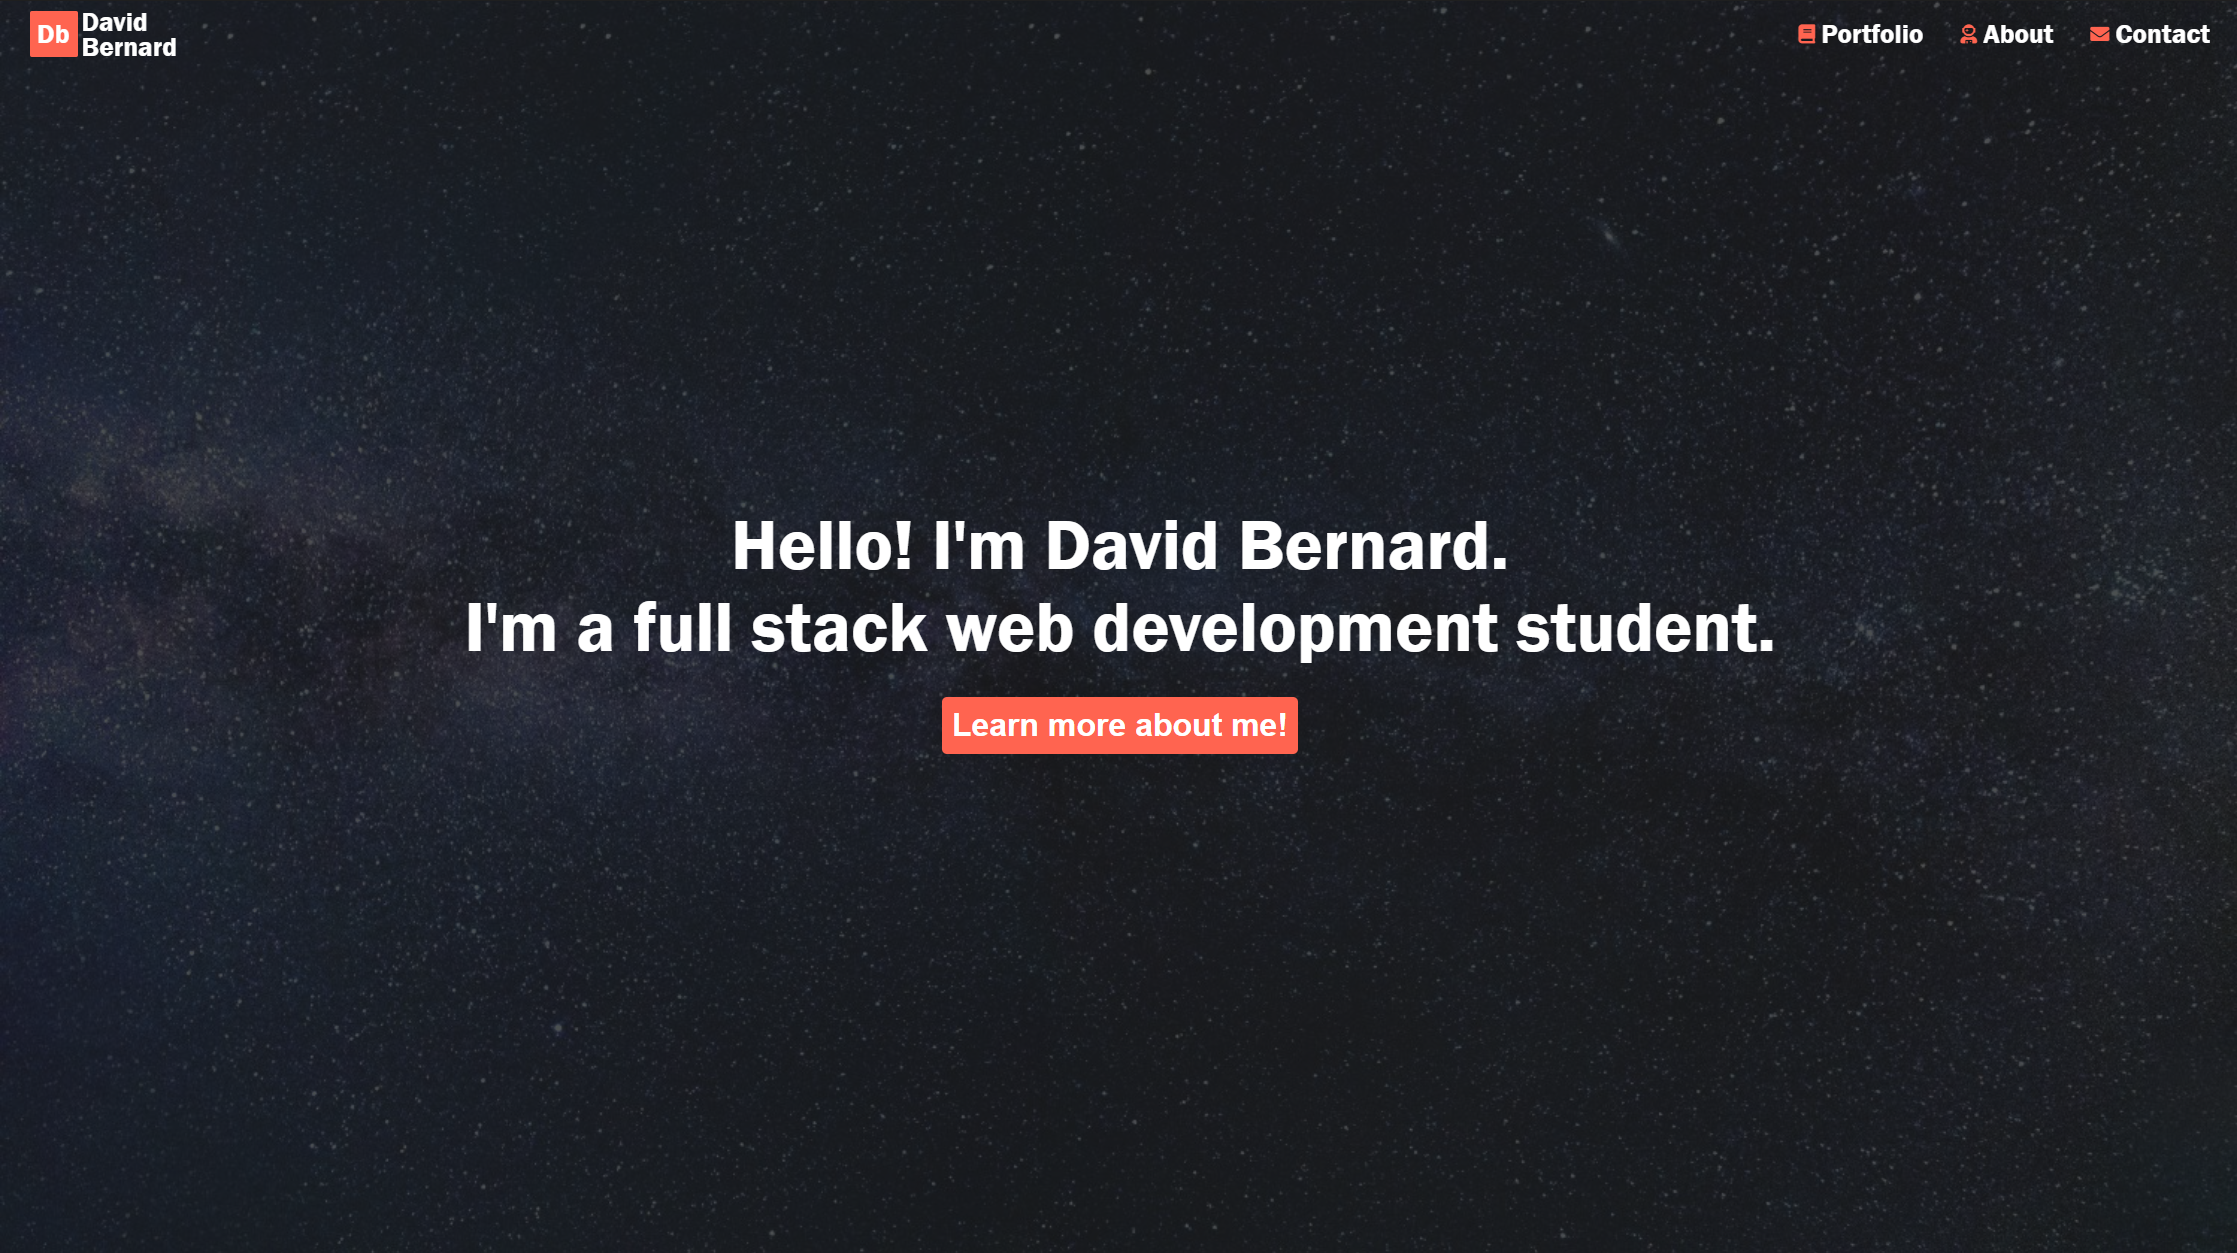
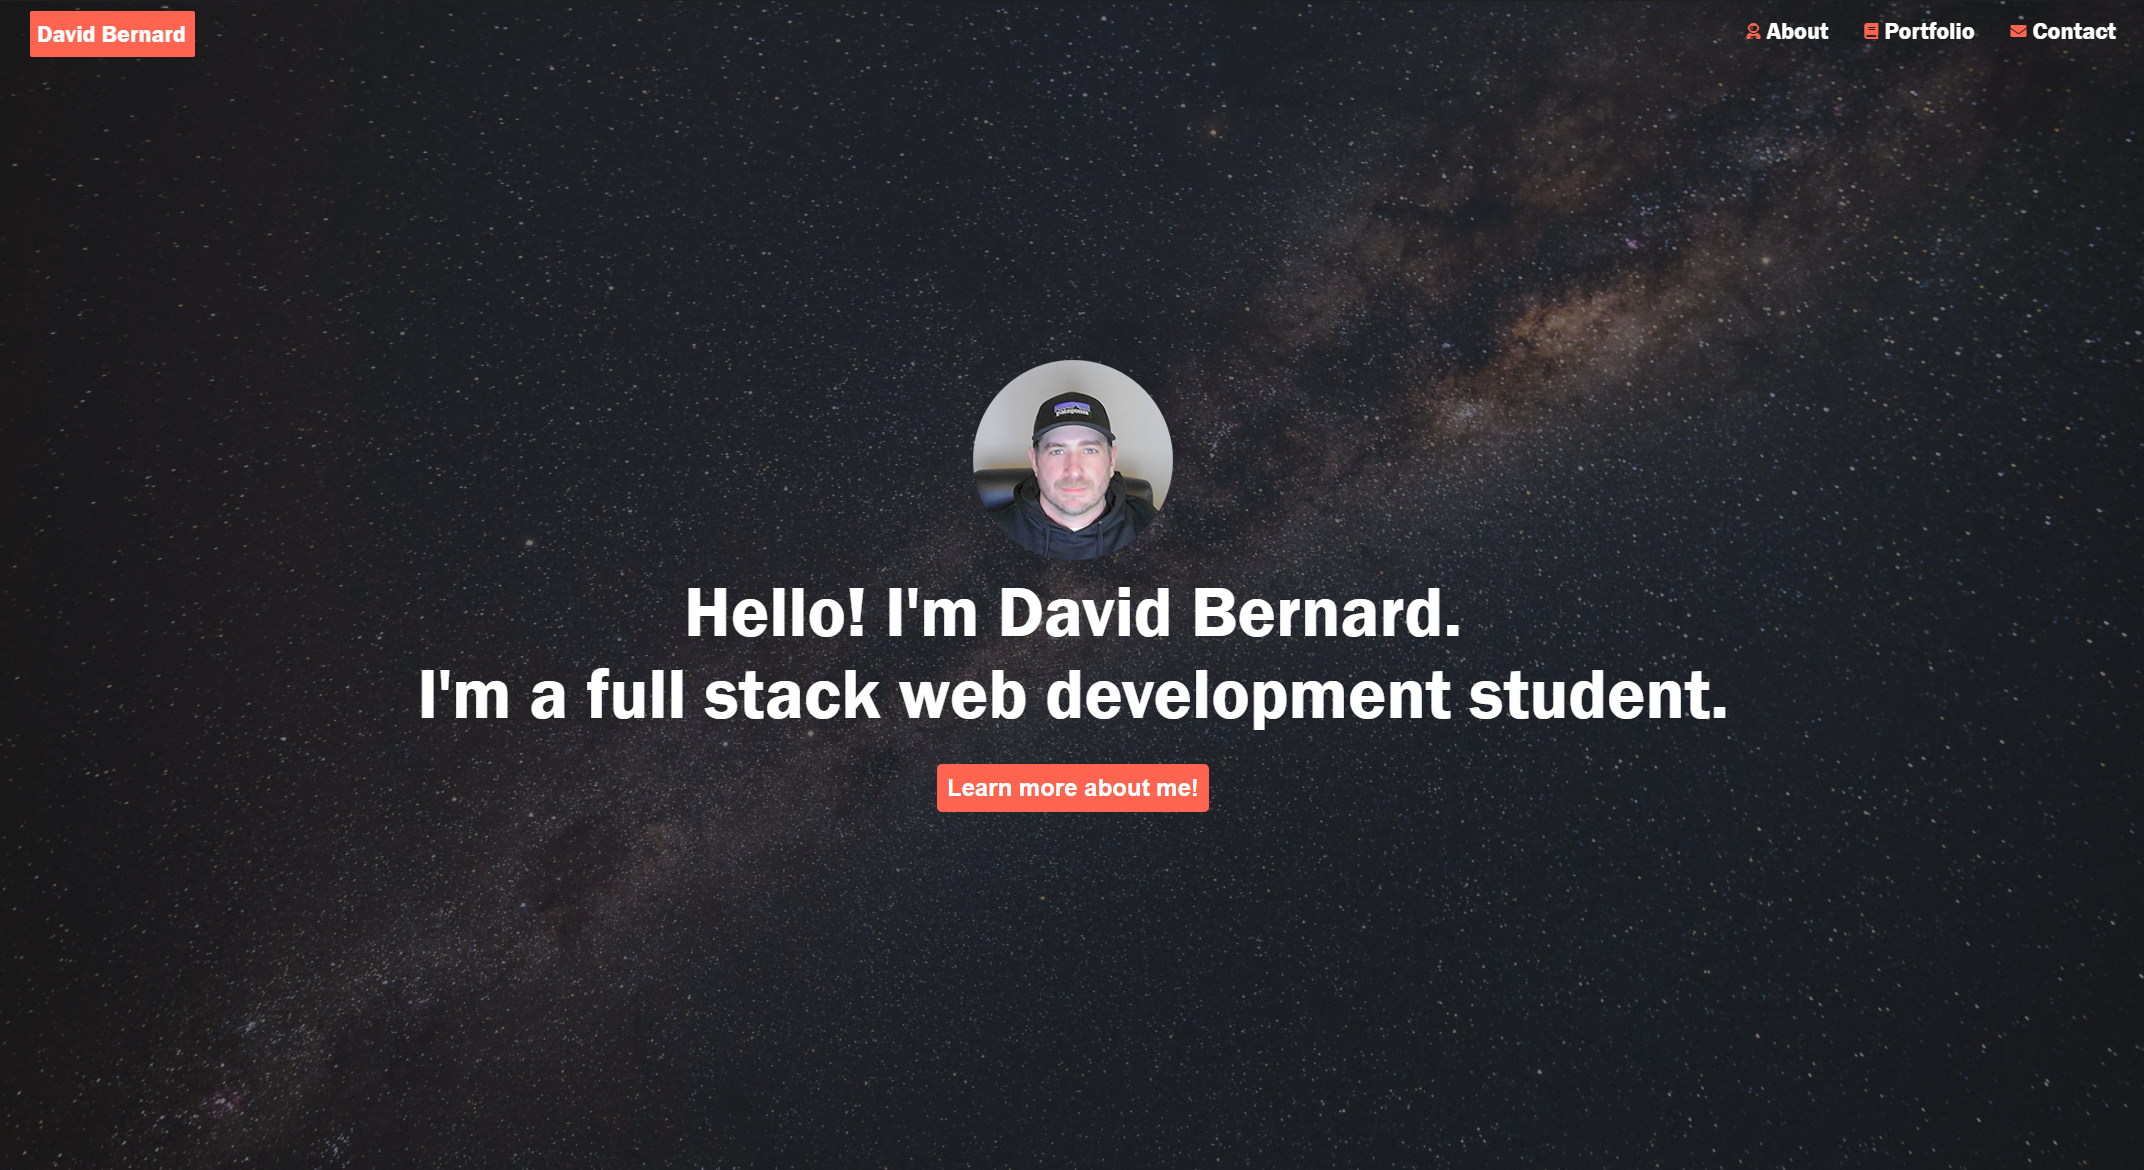
making updates to images and adding portfolio picture

diff --git a/index.html b/index.html
@@ -8,8 +8,6 @@
     <title>David Bernard | Web Development</title>
     <link rel="shortcut icon" type="image/jpg" href="assets/images/icon.png"/>
     <link href="assets/css/style.css" type='text/css' rel='stylesheet'>
-    <link rel="preconnect" href="https://fonts.gstatic.com">
-    <link href="https://fonts.googleapis.com/css2?family=Oswald:wght@500&display=swap" rel="stylesheet">
 </head>
 <!-------------------------- Body Starts Here -------------------------->
 <body>
@@ -40,6 +38,7 @@
         <section class="sectionOne" id="sectionOne">
             <div class="contentOne">
                 <div class="mainContent">
+                    <img src="assets/images/myimage.png"/>
                     <h1>Hello! I'm David Bernard.<br>I'm a full stack web development student.</h1>
                     <a href="#sectionTwo"><button id="learnButton">Learn more about me!</button></a>
                 </div>

diff --git a/assets/css/style.css b/assets/css/style.css
@@ -134,7 +134,7 @@ main {
     padding: 10px;
     margin-top: 30px;
     border-radius: 5px;
-    font-size: 2rem;
+    font-size: 1.5rem;
     font-weight: bold;
     background-color: var(--primaryColor);
     border-style: none;
@@ -257,6 +257,7 @@ main {
 
 .gridText {
     width: 100%;
+    margin-top: 100px;
     margin-left: auto;
     margin-right: auto;
     border-radius: 5px;
@@ -274,7 +275,7 @@ main {
     padding-top: 50px;
     padding-bottom: 50px;
     color: var(--backgroundOne); 
-    height: 800px;
+    height: 500px;
     margin: 10px;
 }
 
